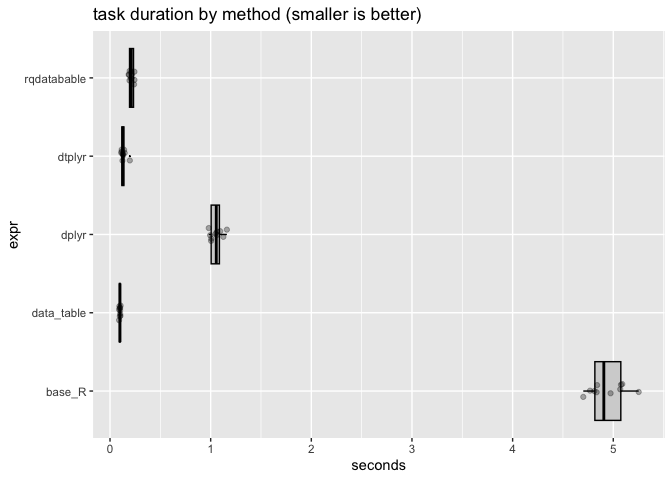
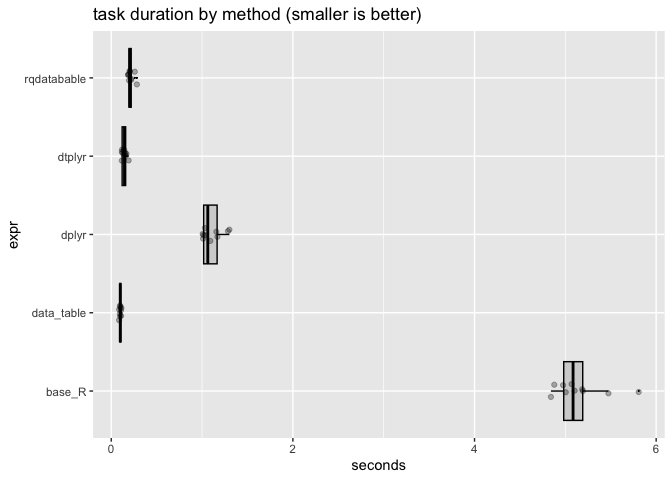
add links and re-run

diff --git a/Examples/Polars/TimedGroupCalc.md b/Examples/Polars/TimedGroupCalc.md
@@ -10,6 +10,8 @@ table](https://CRAN.R-project.org/package=data.table),
 
 For similar timing in Python, please see
 [here](https://github.com/WinVector/data_algebra/blob/main/Examples/Polars/TimeGroupedCalc.ipynb).
+For more definitive tests at scale, please see
+[here](https://h2oai.github.io/db-benchmark/).
 
 ``` r
 library(microbenchmark)
@@ -203,11 +205,11 @@ print(timings, unit="s")
 
     ## Unit: seconds
     ##         expr        min         lq       mean     median        uq       max
-    ##       base_R 4.70199419 4.81126104 4.94173607 4.90616173 5.0767859 5.2527458
-    ##   data_table 0.09002466 0.09263841 0.09780879 0.09894274 0.1006140 0.1053476
-    ##        dplyr 0.98075563 1.00402095 1.05419643 1.05555202 1.0946687 1.1609567
-    ##       dtplyr 0.11150974 0.11619267 0.13322460 0.12710622 0.1399637 0.1967556
-    ##  rqdatabable 0.18579404 0.19347639 0.21254264 0.21093781 0.2389501 0.2425832
+    ##       base_R 4.84112624 4.97467006 5.15299148 5.08502612 5.1931341 5.8078557
+    ##   data_table 0.08620469 0.09529214 0.09899689 0.09902279 0.1062521 0.1120769
+    ##        dplyr 1.00711809 1.01311405 1.10988116 1.06305300 1.1685141 1.3005730
+    ##       dtplyr 0.11619164 0.11890166 0.14399788 0.14593447 0.1594117 0.1914754
+    ##  rqdatabable 0.18456297 0.19571126 0.21514124 0.20395603 0.2205063 0.2818969
     ##  neval
     ##     10
     ##     10
